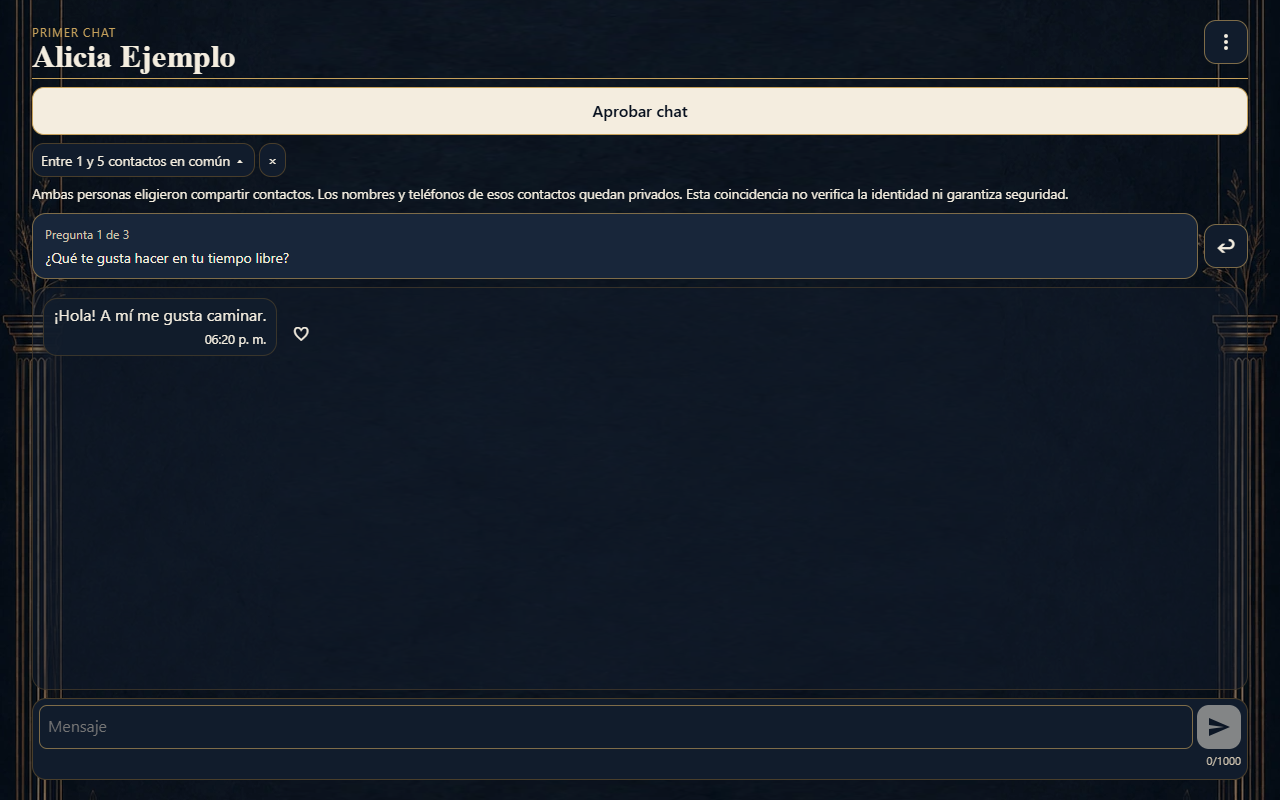
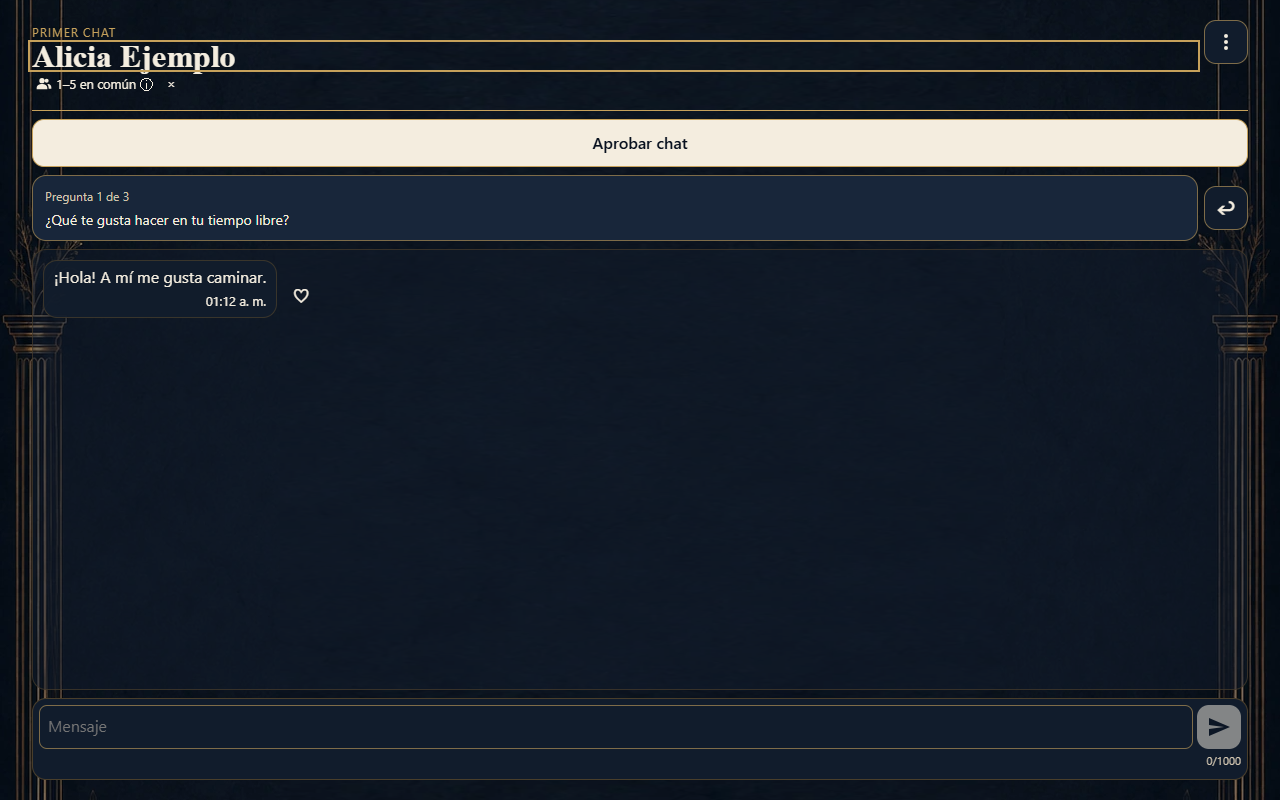
Streamline contact review and First Chat shared-contact disclosure

Changed region(s): [[0.0, 0.0625, 1.0, 0.4375]]

diff --git a/src/contacts/Selection.tsx b/src/contacts/Selection.tsx
@@ -1,10 +1,13 @@
-import { useMemo, useState } from 'react';
+import { useEffect, useMemo, useRef, useState } from 'react';
 import { getCountries, parsePhoneNumberFromString } from 'libphonenumber-js/max';
 import type { CountryCode } from 'libphonenumber-js';
 import type { ContactRow } from './providers';
 
 const countries = getCountries();
 const names = new Intl.DisplayNames(['es'], { type: 'region' });
+const countryList = countries.map(code => ({ code, name: names.of(code) ?? code }))
+  .sort((a, b) => a.name.localeCompare(b.name, 'es'));
+const normalize = (value: string) => value.normalize('NFD').replace(/\p{M}/gu, '').toLowerCase().trim();
 interface Group { number: string; name: string; indices: number[] }
 
 function review(rows: ContactRow[], country: CountryCode | undefined) {
@@ -28,7 +31,39 @@ export function Selection({ rows, countryCode, updating, disabled, pending = fal
   confirm: (numbers: string[]) => void; cancel: () => void;
 }) {
   const [region, setRegion] = useState(() => countries.find(code => code === countryCode) ?? '');
-  const [adjusting, setAdjusting] = useState(!region);
+  const [adjusting, setAdjusting] = useState(false);
+  const [query, setQuery] = useState('');
+  const closing = useRef(false);
+  const dialog = useRef<HTMLDialogElement>(null);
+  const trigger = useRef<HTMLButtonElement>(null);
+  useEffect(() => {
+    if (!adjusting) return;
+    const node = dialog.current;
+    node?.showModal();
+    const viewport = window.visualViewport;
+    const resize = () => node?.style.setProperty('--country-viewport', viewport?.height + 'px');
+    if (viewport) resize();
+    viewport?.addEventListener('resize', resize);
+    const back = (event: PopStateEvent) => {
+      // Home owns navigation to other screens. A same-screen Back only closes this dialog.
+      if (event.state?.trail?.at(-1) === 'contacts') event.stopImmediatePropagation();
+      node?.close();
+      setAdjusting(false);
+    };
+    window.addEventListener('popstate', back, true);
+    return () => {
+      viewport?.removeEventListener('resize', resize);
+      window.removeEventListener('popstate', back, true);
+      node?.close();
+      trigger.current?.focus({ preventScroll: true });
+    };
+  }, [adjusting]);
+  function closeSelector() {
+    if (closing.current) return;
+    closing.current = true;
+    if (history.state?.contactRegion) history.back();
+    else setAdjusting(false);
+  }
   const [excluded, setExcluded] = useState({ rows: new Set<number>(), numbers: new Set<string>() });
   const country = countries.find(code => code === region);
   const { groups, invalid } = useMemo(() => review(rows, country), [rows, country]);
@@ -42,17 +77,33 @@ export function Selection({ rows, countryCode, updating, disabled, pending = fal
     }
     setExcluded(next);
   }
+  const search = normalize(query);
+  const matches = countryList.filter(item => normalize(item.name).includes(search) || item.code.toLowerCase() === search);
   return <fieldset disabled={pending} className="home-card"><h3>Revisá tus contactos</h3>
     <p>Cada teléfono cuenta una vez, aunque esté guardado con varios nombres.</p>
     {rows.some(row => !row.number.startsWith('+')) && <div>
-      <button className="contact-region" aria-expanded={adjusting} onClick={() => setAdjusting(!adjusting)}>{country ? 'País de los números locales: ' + names.of(country) : 'Elegir país para números locales'}</button>
-      {adjusting && <label>País de los números sin prefijo internacional
-        <select value={region} onChange={e => setRegion(e.target.value)}><option value="">Elegí un país</option>{countries.map(code =>
-          <option key={code} value={code}>{names.of(code)} ({code})</option>)}</select>
-        Si tenés números locales de varios países, desmarcá los que no correspondan al país elegido.</label>}
+      <button ref={trigger} className="contact-region" aria-haspopup="dialog" onClick={() => {
+        closing.current = false;
+        history.pushState({ ...history.state, contactRegion: true }, '');
+        setQuery('');
+        setAdjusting(true);
+      }}><span><small>País de los números locales</small><strong>{country ? names.of(country) : 'Elegí un país'}</strong></span><span aria-hidden="true">›</span></button>
+      <p className="contact-hint">Solo se aplica a números sin prefijo internacional.</p>
+      {adjusting && <dialog ref={dialog} className="country-dialog" aria-label="Elegí un país" onKeyDown={e => { if (e.key === 'Escape') { e.preventDefault(); e.stopPropagation(); closeSelector(); } }} onCancel={e => { e.preventDefault(); closeSelector(); }}>
+        <header><h3>Elegí un país</h3><button aria-label="Cerrar" onClick={closeSelector}>×</button></header>
+        <input autoFocus type="search" aria-label="Buscar país" placeholder="Buscar país" value={query} onChange={e => setQuery(e.target.value)}/>
+        <div className="country-list">{matches.map(item =>
+          <button key={item.code} aria-pressed={item.code === country} onClick={() => { setRegion(item.code); closeSelector(); }}>
+            {item.name}{item.code === country && <span aria-hidden="true">✓</span>}</button>)}
+          {!matches.length && <p role="status">Sin resultados</p>}
+        </div>
+      </dialog>}
     </div>}
-    <div className="contact-bulk"><button onClick={() => toggle(groups, true)}>Seleccionar todos</button>
-      <button onClick={() => setExcluded({ rows: new Set(rows.map((_, i) => i)), numbers: new Set([...excluded.numbers, ...groups.map(g => g.number)]) })}>Deseleccionar todos</button></div>
+    <label className="contact-bulk"><input type="checkbox" disabled={!groups.length} checked={!!groups.length && numbers.size === groups.length}
+      ref={input => { if (input) input.indeterminate = numbers.size > 0 && numbers.size < groups.length; }}
+      onChange={e => { if (e.target.checked) toggle(groups, true);
+        else setExcluded({ rows: new Set(rows.map((_, i) => i)), numbers: new Set([...excluded.numbers, ...groups.map(g => g.number)]) }); }}/>
+      {groups.length && numbers.size === groups.length ? 'Deseleccionar todos' : 'Seleccionar todos'} <small>{numbers.size}/{groups.length}</small></label>
     <div className="contact-rows">{groups.map(group => <label key={group.number}><input type="checkbox" checked={numbers.has(group.number)}
       onChange={e => toggle([group], e.target.checked)}/><span>{group.name || 'Sin nombre'} · {group.number}</span></label>)}</div>
     {!!invalid.length && <details><summary>Teléfonos sin incluir ({invalid.length})</summary><p>Revisá el país o el formato en tu agenda.</p>

diff --git a/src/contacts/contacts.css b/src/contacts/contacts.css
@@ -7,17 +7,14 @@
 .contacts button:disabled { opacity: .6; cursor: default; }
 .contact-rows { display: grid; max-height: 44dvh; overflow-y: auto; }
 .contacts .contact-rows label { display: flex; align-items: center; gap: 8px; min-height: 44px; overflow-wrap: anywhere; }
-.contacts select { display: block; max-width: 100%; font: inherit; }
 .contact-indicator { display: flex; align-items: center; flex-wrap: wrap; gap: 4px; }
 .contact-indicator button { font-size: .85rem; padding: 4px 8px; min-height: 28px; }
 .contact-indicator p { flex-basis: 100%; font-size: .85rem; margin: 0; }
 .contact-invite button { margin-inline-end: 8px; }
 
 .contacts button.contact-primary, .contact-invite button.contact-primary { background: var(--color-primary); color: var(--color-on-primary); font-weight: 600; }
-.contact-bulk { display: flex; flex-wrap: wrap; gap: 8px; }
 .contact-invite h3 { display: flex; align-items: center; gap: 8px; }
 .contact-invite h3 svg { color: var(--color-secondary); flex: none; }
-.contacts button.contact-region { background: transparent; border: 0; text-decoration: underline; text-underline-offset: 3px; padding-inline: 0; font-size: .9rem; }
 
 .contacts button[aria-busy] { position: relative; padding-inline: 2rem; }
 .contacts button[aria-busy=true]::after {
@@ -26,3 +23,25 @@
   animation: auth-spin 800ms linear infinite;
 }
 @media (prefers-reduced-motion: reduce) { .contacts button[aria-busy=true]::after { animation: none; } }
+.contacts button.contact-region { width:100%; display:flex; align-items:center; justify-content:space-between; text-align:start; padding:10px 12px; text-decoration:none; border:1px solid var(--color-outline-variant); }
+.contact-region small,.contact-region strong { display:block; }
+.contact-region strong { font-size:1rem; }
+.contacts .contact-hint { margin-top:5px; font-size:.875rem; }
+.contacts .contact-bulk { display:flex; align-items:center; min-height:44px; gap:8px; border-bottom:1px solid var(--color-outline-variant); }
+.contact-bulk small { margin-inline-start:auto; }
+.contacts input[type=checkbox] { accent-color:var(--color-primary); }
+.contacts .country-dialog { box-sizing:border-box; width:min(28rem,94vw); max-height:80dvh; padding:18px; border:1px solid var(--color-outline-variant); border-radius:var(--radius-card); color:var(--color-on-surface); background:var(--color-surface); }
+.country-dialog[open] { display:flex; flex-direction:column; gap:12px; }
+.country-dialog::backdrop { background:#0008; }
+.country-dialog header,.country-list button { display:flex; justify-content:space-between; align-items:center; }
+.country-dialog input { font:inherit; padding:10px; background:var(--color-surface); color:inherit; border:1px solid var(--color-outline); border-radius:var(--radius-row); }
+.country-list { overflow:auto; overscroll-behavior:contain; }
+.contacts .country-list button { width:100%; min-height:44px; border:0; border-radius:0; color:inherit; }
+.contacts .country-list button[aria-pressed=true] { font-weight:bold; color:var(--color-primary); background:var(--color-surface-variant); }
+@media(max-width:600px) {
+  .contacts .country-dialog { inset:0; margin:0; width:100vw; max-width:none; height:var(--country-viewport,100dvh); max-height:100dvh; border:0; border-radius:0; padding:max(16px,env(safe-area-inset-top)) max(16px,env(safe-area-inset-right)) max(16px,env(safe-area-inset-bottom)) max(16px,env(safe-area-inset-left)); }
+}
+.chat-identity .contact-indicator { position:relative; width:fit-content; max-width:100%; flex-wrap:nowrap; gap:0; }
+.chat-identity .contact-indicator button { display:inline-flex; align-items:center; justify-content:center; gap:4px; padding:4px; color:var(--color-primary); background:transparent; border:0; min-width:28px; font-size:.8rem; }
+.contact-indicator svg { flex:none; }
+.chat-identity .contact-indicator p { position:absolute; inset:100% auto auto 0; z-index:9; width:min(19rem,calc(100vw - 48px)); box-sizing:border-box; padding:12px; font-size:.9rem; font-weight:normal; line-height:1.45; color:var(--color-on-surface); background:var(--color-surface); border:1px solid var(--color-outline); border-radius:var(--radius-row); box-shadow:0 4px 16px #0003; }

diff --git a/src/contacts/Selection.test.tsx b/src/contacts/Selection.test.tsx
@@ -1,4 +1,4 @@
-import { fireEvent, render, screen } from '@testing-library/react';
+import { fireEvent, render, screen, waitFor } from '@testing-library/react';
 import { it, expect, vi } from 'vitest';
 import { Selection } from './Selection';
 
@@ -9,31 +9,56 @@ function mount(countryCode: string | undefined, numbers: string[]) {
   return confirm;
 }
 const button = (name: string | RegExp) => screen.getByRole('button', { name });
+async function choose(name: string) {
+  fireEvent.click(button(/País de los números locales/));
+  fireEvent.change(screen.getByRole('searchbox'), { target: { value: name } });
+  fireEvent.click(button(name));
+  await waitFor(() => expect(screen.queryByRole('dialog')).toBeNull());
+}
 it('groups Argentine mobile aliases with domestic 15 and preserves distinct phones with identical names', () => {
   const confirm = mount('AR', ['011 15-2345-6789', '+54 9 11 2345-6789', '011 4321-1234', '+12025550100', 'malformado']);
   expect(screen.queryByRole('combobox')).toBeNull();
-  expect(screen.getAllByRole('checkbox')).toHaveLength(3);
+  expect(screen.getAllByRole('checkbox')).toHaveLength(4);
   expect(screen.queryByText(/Alias/)).toBeNull();
   expect(screen.getByText('Teléfonos sin incluir (1)')).toBeVisible();
   fireEvent.click(button('Importar contactos'));
   expect(confirm).toHaveBeenCalledWith(['+5491123456789', '+541143211234', '+12025550100']);
 });
-it.each([undefined, 'XX'])('asks for a reference region when %s is unavailable', region => {
+it.each([undefined, 'XX'])('asks for a reference region when %s is unavailable', async region => {
   mount(region, ['2025550100', '+12025550101']);
-  expect(screen.getAllByRole('checkbox')).toHaveLength(1);
-  fireEvent.change(screen.getByRole('combobox'), { target: { value: 'US' } });
   expect(screen.getAllByRole('checkbox')).toHaveLength(2);
+  await choose('Estados Unidos');
+  expect(screen.getAllByRole('checkbox')).toHaveLength(3);
   expect(screen.getByText('2 teléfonos seleccionados')).toBeVisible();
 });
-it('keeps excluded rows and canonical groups excluded through splits and merges', () => {
+it('keeps excluded rows and canonical groups excluded through splits and merges', async () => {
   mount('US', ['2025550100', '+12025550100', '+492025550100']);
   fireEvent.click(screen.getByRole('checkbox', { name: /12025550100/ }));
-  fireEvent.click(button(/País de los números locales/));
-  fireEvent.change(screen.getByRole('combobox'), { target: { value: 'DE' } });
+  await choose('Alemania');
   expect(screen.getByRole('checkbox', { name: /492025550100/ })).not.toBeChecked();
   expect(button('Importar contactos')).toBeDisabled();
-  fireEvent.change(screen.getByRole('combobox'), { target: { value: 'US' } });
+  await choose('Estados Unidos');
   expect(screen.getByRole('checkbox', { name: /12025550100/ })).not.toBeChecked();
-  fireEvent.click(button('Seleccionar todos'));
+  fireEvent.click(screen.getByRole('checkbox', { name: /Seleccionar todos/ }));
   expect(screen.getByText('2 teléfonos seleccionados')).toBeVisible();
+});
+
+it('keeps unresolved rows excluded after clearing all, then selects eligible groups from mixed', async () => {
+  mount(undefined, ['2025550100', '+12025550101']);
+  const master = screen.getByRole('checkbox', { name: /Deseleccionar todos/ });
+  expect(master).toBeChecked();
+  fireEvent.click(master);
+  await choose('Estados Unidos');
+  expect(master).not.toBeChecked();
+  expect(button('Importar contactos')).toBeDisabled();
+  fireEvent.click(screen.getByRole('checkbox', { name: /12025550100/ }));
+  expect(master).toBePartiallyChecked();
+  fireEvent.click(master);
+  expect(master).toBeChecked();
+});
+it('locks the region and bulk controls during submission', () => {
+  render(<Selection countryCode="AR" pending disabled rows={[{ name: 'Ejemplo', number: '011 4321-1234' }]}
+    updating confirm={vi.fn()} cancel={vi.fn()}/>);
+  expect(button(/País de los números locales/)).toBeDisabled();
+  expect(screen.getByRole('checkbox', { name: /Deseleccionar todos/ })).toBeDisabled();
 });

diff --git a/src/chat/SharedContactIndicator.tsx b/src/chat/SharedContactIndicator.tsx
@@ -1,25 +1,52 @@
-import { useId, useState } from 'react';
+import { useEffect, useId, useRef, useState } from 'react';
 
 export const rangeLabels = {
   ONE_TO_FIVE: 'Entre 1 y 5 contactos en común',
   SIX_TO_TEN: 'Entre 6 y 10 contactos en común',
   MORE_THAN_TEN: 'Más de 10 contactos en común',
 };
+const compact = { ONE_TO_FIVE: '1–5 en común', SIX_TO_TEN: '6–10 en común', MORE_THAN_TEN: 'Más de 10 en común' };
 
 export function SharedContactIndicator({ owner, chat, range }: { owner: string; chat: string; range: keyof typeof rangeLabels }) {
   const key = `reals.contacts.indicator.${encodeURIComponent(owner)}.${encodeURIComponent(chat)}`;
   const id = useId();
-  const [mode, setMode] = useState(() => {
-    try { return localStorage.getItem(key) ?? 'collapsed'; } catch { return 'collapsed'; }
+  const root = useRef<HTMLElement>(null);
+  const trigger = useRef<HTMLButtonElement>(null);
+  const [dismissed, setDismissed] = useState(() => {
+    try { return localStorage.getItem(key) === 'dismissed'; } catch { return false; }
   });
-  function update(value: string) {
-    setMode(value);
-    try { localStorage.setItem(key, value); } catch { /* Current view still honors the choice. */ }
-  }
-  if (mode === 'dismissed') return null;
-  return <aside className="contact-indicator" aria-label="Contactos en común">
-    <button aria-expanded={mode === 'expanded'} aria-controls={id} onClick={() => update(mode === 'expanded' ? 'collapsed' : 'expanded')}>{rangeLabels[range]} {mode === 'expanded' ? '▴' : '▾'}</button>
-    <button aria-label="Descartar indicador de contactos en común" onClick={() => update('dismissed')}>×</button>
-    <p id={id} hidden={mode !== 'expanded'}>Ambas personas eligieron compartir contactos. Los nombres y teléfonos de esos contactos quedan privados. Esta coincidencia no verifica la identidad ni garantiza seguridad.</p>
+  const [open, setOpen] = useState(false);
+  useEffect(() => {
+    if (!open) return;
+    function outside(e: Event) {
+      if (e.target instanceof Node && !root.current?.contains(e.target)) setOpen(false);
+    }
+    function escape(e: KeyboardEvent) {
+      if (e.key === 'Escape') {
+        e.stopPropagation();
+        setOpen(false);
+        trigger.current?.focus({ preventScroll: true });
+      }
+    }
+    document.addEventListener('pointerdown', outside);
+    document.addEventListener('focusin', outside);
+    document.addEventListener('keydown', escape, true);
+    return () => {
+      document.removeEventListener('pointerdown', outside);
+      document.removeEventListener('focusin', outside);
+      document.removeEventListener('keydown', escape, true);
+    };
+  }, [open]);
+  if (dismissed) return null;
+  return <aside ref={root} className="contact-indicator" aria-label="Contactos en común">
+    <button ref={trigger} aria-label={rangeLabels[range]} aria-expanded={open} aria-controls={open ? id : undefined} aria-describedby={open ? id : undefined} onClick={() => setOpen(!open)}>
+      <svg aria-hidden="true" viewBox="0 0 24 24" width="16" height="16" fill="currentColor"><path d="M9 11a4 4 0 1 0 0-8 4 4 0 0 0 0 8zm7-1a3 3 0 1 0 0-6 3 3 0 0 0 0 6zM1 20v-2c0-4 4-6 8-6s8 2 8 6v2zm17-8c3 0 5 2 5 5v2h-4v-1c0-2-.7-4-2-6z"/></svg>
+      {compact[range]} <span aria-hidden="true">ⓘ</span></button>
+    <button aria-label="Descartar indicador de contactos en común" onClick={() => {
+      root.current?.closest('header')?.querySelector('h2')?.focus({ preventScroll: true });
+      setOpen(false); setDismissed(true);
+      try { localStorage.setItem(key, 'dismissed'); } catch { /* Keep dismissal for this view. */ }
+    }}>×</button>
+    {open && <p id={id}>Ambas personas eligieron compartir contactos. Los nombres y teléfonos de esos contactos quedan privados. Esta coincidencia no verifica la identidad ni garantiza seguridad.</p>}
   </aside>;
 }

diff --git a/src/chat/FirstChat.tsx b/src/chat/FirstChat.tsx
@@ -77,7 +77,8 @@ export function FirstChat({ controller, matchId, chatId, onHome }: { controller:
   return <section ref={root} className="first-chat" aria-label="Primer chat">
     <div className="chat-chrome">
     <header className="chat-heading chat-heading-actions">
-    <div className="chat-identity"><p className="chat-phase">PRIMER CHAT</p><h2 ref={heading} tabIndex={-1}>{chat?.partner.displayName ?? 'Cargando conversación…'}</h2></div>
+    <div className="chat-identity"><p className="chat-phase">PRIMER CHAT</p><h2 ref={heading} tabIndex={-1}>{chat?.partner.displayName ?? 'Cargando conversación…'}</h2>
+    {chat?.sharedContactRange && !state.blocked && state.audioAccess !== 'RESTRICTED' && !p.decisionOnly && remaining > 0 && <SharedContactIndicator key={JSON.stringify([me, chatId])} owner={me} chat={chatId} range={chat.sharedContactRange}/>}</div>
     {!p.decisionOnly && <button className={`chat-approve ${p.decide && !state.blocked && !audioDirty ? "chat-stable-control" : ""}`} aria-busy={!!state.decisionPending} disabled={decisionDisabled} onClick={() => { if(!decisionDisabled)void session.action('approve'); }}><span aria-live="polite">{state.decisionPending ? state.decisionPending==='approve'?'Aprobando…':'Rechazando…' : 'Aprobar chat'}</span></button>}
     <ChatMenu decisionOnly={p.decisionOnly} actions={[
       ...(!decisionPanel ? [{ label: 'Rechazar chat', disabled: decisionDisabled, run: () => { if(!decisionDisabled)void session.action('reject'); } }] : []),
@@ -88,7 +89,6 @@ export function FirstChat({ controller, matchId, chatId, onHome }: { controller:
       { label: 'Reportar por seguridad', disabled: disabled || !p.safety, run: () => setDialog('safety') },
       { label: 'Bloquear', disabled: disabled || !p.safety, run: () => setDialog('block') },
     ]}/></header>
-    {chat?.sharedContactRange && !state.blocked && state.audioAccess !== 'RESTRICTED' && !p.decisionOnly && remaining > 0 && <SharedContactIndicator owner={me} chat={chatId} range={chat.sharedContactRange}/>}
     {terminalNotice && <p role="status">{terminalNotice} <button onClick={home}>Volver a Inicio</button></p>}{state.busy && dialog === null && state.reactionFeedback === null && !state.messagePending && !state.guidancePending && !state.decisionPending && <p className="chat-status" role="status">Actualizando…</p>}{state.error && !state.messageError && !dialog && <p className={state.reactionFeedback === 'error' ? 'chat-reaction-error' : undefined} role="alert">{state.error} <button disabled={state.busy} onClick={() => void session.refresh()}>Reintentar conexión</button></p>}
     {chat && remaining <= 60 && <p role="status">{remaining ? `El plazo del chat termina en ${remaining} s.` : 'El plazo local terminó. Consultando el estado del servidor…'}</p>}
     {decisionPanel && <aside className="chat-panel chat-decision-card" aria-labelledby="chat-decision-title">

diff --git a/src/contacts/Contacts.tsx b/src/contacts/Contacts.tsx
@@ -203,7 +203,7 @@ export default function Contacts({ controller, onBack, sources = providers }: {
         <button disabled={busy} onClick={() => google ? void pick(google) : void loadGoogle()}>{google ? 'Elegir cuenta de Google' : 'Preparar Google Contacts'}</button></>}</>}
       {phase === 'provider' && <button onClick={release}>Cancelar</button>}
     </section>
-    {intent && <Selection pending={mutation === 'PUTselection'} disabled={stale || busy} rows={intent.rows} countryCode={controller.snapshot.profile?.countryCode} updating={status.state !== 'NOT_CONFIGURED'} cancel={release} confirm={numbers => void mutate('selection', 'PUT', { numbers }, intent.revision, numbers.length)}/>}
+    {intent && <Selection pending={phase === 'writing'} disabled={stale || busy} rows={intent.rows} countryCode={controller.snapshot.profile?.countryCode} updating={status.state !== 'NOT_CONFIGURED'} cancel={release} confirm={numbers => void mutate('selection', 'PUT', { numbers }, intent.revision, numbers.length)}/>}
     {status.acceptedConsentVersion !== null && <section className="home-card"><h3>Administrar participación</h3>
       {status.state !== 'NOT_CONFIGURED' && <button aria-busy={mutation === 'DELETEselection'} disabled={busy} onClick={() => { if (window.confirm('¿Borrar la selección actual y conservar tu consentimiento?')) void mutate('selection', 'DELETE'); }}>Borrar contactos compartidos</button>}
       <button aria-busy={mutation === 'DELETEconsent'} disabled={busy} onClick={() => { if (window.confirm('¿Querés deshabilitar los contactos en común? Se borrarán los teléfonos compartidos y retirarás tu consentimiento para priorizar encuentros y mostrar coincidencias. Para volver a usar la función tendrás que aceptar e importar tus contactos nuevamente.')) void mutate('consent', 'DELETE'); }}>Deshabilitar contactos en común</button></section>}</>}

diff --git a/src/contacts/contacts.test.tsx b/src/contacts/contacts.test.tsx
@@ -39,8 +39,8 @@ it('requires separate consent and selection, advances the revision and submits o
   await click('Acepto participar');
   expect(request.mock.calls[1]?.slice(2)).toEqual(['PUT', { version: 3 }, undefined, initial.mutationRevision]);
   expect(pick).not.toHaveBeenCalled();
-  await click('Elegir del dispositivo'); await click('Seleccionar todos');
-  fireEvent.click(screen.getAllByRole('checkbox')[1]!);
+  await click('Elegir del dispositivo');
+  fireEvent.click((await screen.findAllByRole('checkbox'))[2]!);
   await click('Importar contactos');
   expect(await screen.findByText('Sincronizaste 1 teléfono.')).toBeVisible();
   expect(request.mock.calls[2]?.slice(2)).toEqual(['PUT', { numbers: [rows[0]!.number] }, undefined, accepted.mutationRevision]);
@@ -136,7 +136,7 @@ it('preselects Google numbers and prevents an empty update', async () => {
   render(<Contacts controller={controller} onBack={vi.fn()} sources={{ google: async () => async () => rows }}/>);
   await click('Preparar Google Contacts'); await click('Elegir cuenta de Google');
   expect((await screen.findAllByRole('checkbox'))[0]).toBeChecked();
-  await click('Deseleccionar todos');
+  fireEvent.click(screen.getByRole('checkbox', { name: /Deseleccionar todos/ }));
   expect(screen.getByRole('button', { name: 'Actualizar contactos' })).toBeDisabled();
   expect(request).toHaveBeenCalledTimes(1);
 });

diff --git a/src/chat/sharedContacts.test.tsx b/src/chat/sharedContacts.test.tsx
@@ -12,7 +12,18 @@ it.each([undefined, null, {}, 2, 'UNKNOWN'])('ignores an unusable optional range
 it.each(Object.entries(rangeLabels))('parses and presents %s', (range, label) => {
   const chat = parseChat({ ...chatFixture(), sharedContactRange: range }, 'm', 'c', 'them');
   const view = render(<SharedContactIndicator owner="a" chat="c" range={chat.sharedContactRange!}/>);
-  fireEvent.click(screen.getByRole('button', { name: new RegExp(label) }));
+  const trigger = screen.getByRole('button', { name: new RegExp(label) });
+  const compactLabels: Record<string, string> = { ONE_TO_FIVE: '1–5 en común', SIX_TO_TEN: '6–10 en común', MORE_THAN_TEN: 'Más de 10 en común' };
+  expect(trigger).toHaveTextContent(compactLabels[range]!);
+  fireEvent.click(trigger);
+  fireEvent.keyDown(document, { key: 'Escape' });
+  expect(trigger).toHaveFocus();
+  expect(screen.queryByText(/Ambas personas/)).toBeNull();
+  fireEvent.click(trigger);
+  fireEvent.pointerDown(document.body);
+  expect(screen.queryByText(/Ambas personas/)).toBeNull();
+  expect(localStorage.length).toBe(0);
+  fireEvent.click(trigger);
   expect(screen.getByText(/Ambas personas/)).toBeVisible();
   fireEvent.click(screen.getByRole('button', { name: /Descartar/ }));
   expect(JSON.stringify(localStorage)).not.toContain(range);

diff --git a/tools/shared-contacts-fixture.tsx b/tools/shared-contacts-fixture.tsx
@@ -49,7 +49,7 @@ const api = new ApiClient(async (url, init) => {
   if (path === '/reference/affinity-questions') return json({ catalogVersion: 'synthetic', categories: [], questions: [] });
   if (path === '/me/profile/affinity-answers') return json({ answers: [] });
   if (path === '/matches/m') return json({ id: 'm', userAId: 'me', userBId: 'them', state: 'CHAT_ACTIVE' });
-  if (path === '/matches/m/chat') return json({ id: 'c', matchId: 'm', chatType: 'FIRST_CHAT', status: 'ACTIVE', partner: { userId: 'them', displayName: 'Alicia Ejemplo' },
+  if (path === '/matches/m/chat') return json({ id: 'c', matchId: 'm', chatType: 'FIRST_CHAT', status: 'ACTIVE', partner: { userId: 'them', displayName: options.has('long') ? 'Alicia del Valle Ejemplo Ficticio' : 'Alicia Ejemplo' },
     myDecision: 'PENDING', partnerDecision: 'PENDING', timeoutAt: new Date(Date.now()+600000), serverTime: new Date(), sharedContactRange: range,
     guidance: { question: { id: 'q', instanceId: 'q1', text: '¿Qué te gusta hacer en tu tiempo libre?' }, questionOrdinal: 1, maxQuestions: 3,
       requiredParticipationScore: 100, directQuestionReplyMultiplier: 2, progressionAction: 'NEXT_QUESTION', canRequestNext: false, myNextRequested: false, completed: false } });

diff --git a/docs/android-parity-matrix.md b/docs/android-parity-matrix.md
@@ -2262,9 +2262,9 @@ verifies clean entry and retirement on queue discovery.
 | Area | Android reference and comparison | Web evidence | Status |
 |---|---|---|---|
 | Account and Home | MatchmakingHomeScreen delegates AccountSection. Android has no shared-contact consent, import, replacement, invite or withdrawal flow to migrate. | AccountSection, Home, useHomeNavigation and src/contacts. Synthetic consent, replacement, cancellation, selection, stale revision, withdrawal and Back/Forward tests. | COMPLETE for Web-first management in synthetic browsers |
-| First Chat | ChatScreen places ChatHeader before FirstChatGuidancePanel. The bucket is a Web-first addition to this hierarchy. | ChatSession and SharedContactIndicator. Chat metadata drives grouped disclosure, collapse and per-chat dismissal. Existing decision, message, audio and question surfaces keep their roles. | COMPLETE in synthetic browser scenarios |
+| First Chat | ChatScreen places ChatHeader before FirstChatGuidancePanel. The bucket is a Web-first addition to this hierarchy. | ChatSession and SharedContactIndicator. Chat metadata drives a compact identity-header range, transient information popup and account/chat-scoped dismissal. Existing decision, message, audio and question surfaces keep their roles. | COMPLETE in synthetic browser scenarios |
 | Browser and PWA | Web capability discovery, direct picker activation and Google popup ownership differ from native permissions and system Back. | Desktop dark and mobile light Chromium and WebKit engine smoke. Real Google grants, physical device selection, installed-PWA return, keyboard and screen-reader checks pending. | PLATFORM-LIMITED |
 
 [Validation and screenshots](testing.md#synthetic-shared-contact-validation)
 
-The native device picker controls its own labels and selection. Reals review starts after it returns and selects all eligible unique phones for either source. Web does not generate “(y 1 más)” or rewrite provider names. Physical Android testing confirmed that “(y 1 más)” appeared inside the native picker and that Reals consent worked. Repeated denial and recovery are exercised with a mocked native selector. Recovery after changing system permissions still needs a physical-device check. The synthetic browser fixture exercises Argentine national/international duplicates and light/mobile and dark/desktop review states.
+The native device picker controls its own labels and selection. Reals review starts after it returns and selects all eligible unique phones for either source. Web does not generate “(y 1 más)” or rewrite provider names. Physical Android testing confirmed that “(y 1 más)” appeared inside the native picker and that Reals consent worked. The tested Xiaomi showed this native label more frequently than the tested Motorola. Two Reals test accounts also observed shared-contact disclosure in First Chat. Repeated denial and recovery are exercised with a mocked native selector. Recovery after changing system permissions still needs a physical-device check. The synthetic browser fixture exercises Argentine national/international duplicates and light/mobile and dark/desktop review states. Selection.tsx opens a searchable country dialog directly and retains review state across Back. The native master checkbox counts canonical groups. Browser checks cover popup withdrawal, draft and timeline stability, and narrow dark headers. Physical keyboard, screen-reader and OEM rendering of the revised UI remain unverified.

diff --git a/docs/testing.md b/docs/testing.md
@@ -163,6 +163,8 @@ Run `npm run dev -- --port 5177 --strictPort` and then `node tools/shared-contac
 |---|---|---|
 | Home invitation | [Mobile invitation](shared-contacts/chromium-mobile-light-invitation.png) | [Desktop invitation](shared-contacts/chromium-desktop-dark-invitation.png) |
 | Selection | [Mobile selection](shared-contacts/chromium-mobile-light-selection.png) | [Desktop selection](shared-contacts/chromium-desktop-dark-selection.png) |
+| Country selector | [Mobile selector](shared-contacts/chromium-mobile-light-country.png) | [Desktop selector](shared-contacts/chromium-desktop-dark-country.png) |
+| Shared-contact explanation | [Narrow dark header](shared-contacts/narrow-dark-chat.png) | [Open explanation](shared-contacts/narrow-dark-explanation.png) |
 | First Chat | [Mobile chat](shared-contacts/chromium-mobile-light-chat.png) | [Desktop chat](shared-contacts/chromium-desktop-dark-chat.png) |
 
 For independent Backend coverage, run `./mvnw -Dtest=SharedContactsPostgresIT test` in a disposable checkout of Backend a1538817afe61be6805c719bb6917f3a8334ef8a with JDK 21 and Docker. It creates disposable PostgreSQL, exercises two owners with five fictional numbers in common, reads the new chat bucket via MockMvc, then verifies invalidation, quota and concurrency. On Docker Desktop 29 the local test needed JAVA_TOOL_OPTIONS=-Dapi.version=1.44 for Testcontainers. For a browser connected to local Backend with fictional entries see [local configuration](deployment.md#local-synthetic-backend).
